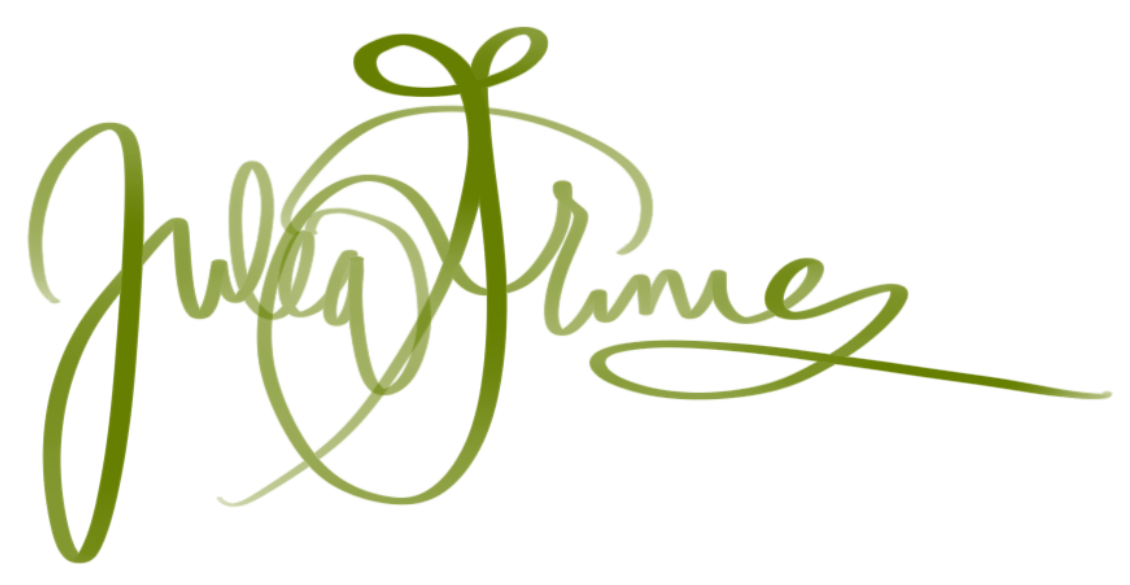
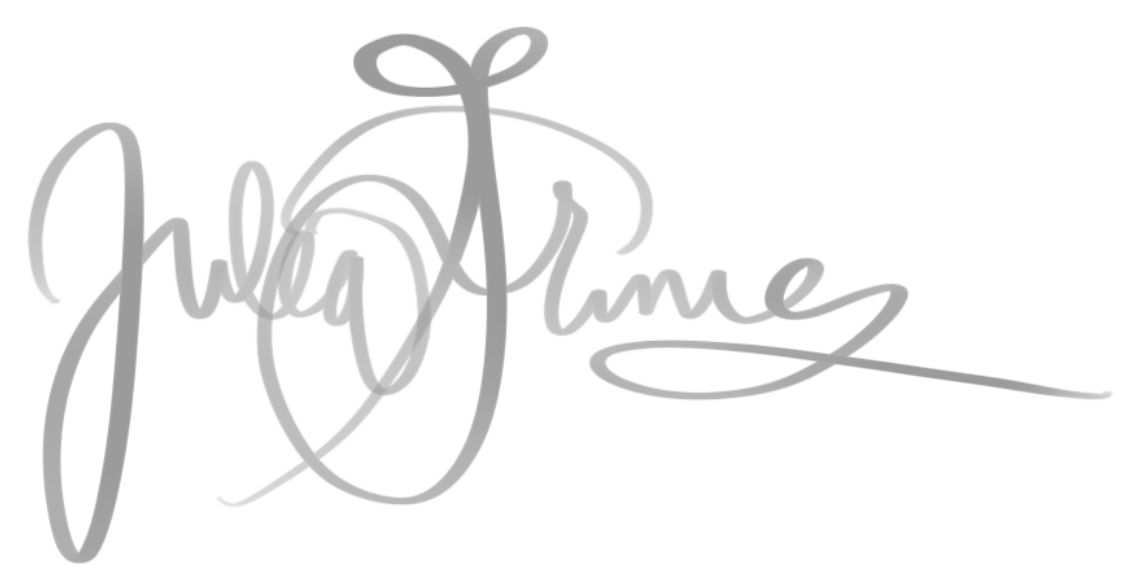
Update styling to simplify

Changed region(s): [[0.0, 0.0308, 0.9912, 0.9846], [0.1858, 0.8308, 0.2478, 0.8615], [0.4956, 0.2154, 0.5265, 0.2462]]

diff --git a/src/CSS/index.css b/src/CSS/index.css
@@ -5,7 +5,7 @@
   margin: 0px;
   padding: 0px;
   color-scheme: light dark;
-  color: rgba(255, 255, 255, 0.87);
+  color: rgba(217, 147, 147, 0.87);
   background-color: rgb(33,29,33);
 
   font-synthesis: none;
@@ -57,7 +57,7 @@ body {
   place-items: center;
   min-width: 320px;
   min-height: 100vh;
-  background-color: rgba(231, 194, 230, 0.193);
+  background-color: rgb(251, 202, 185);
 
 }
 
@@ -123,7 +123,7 @@ button {
   font-family: "j_font";
 
   z-index: 100;
-  background-color: rgb(33,29,33);
+  background-color: rgb(50, 49, 50);
 
 
 }
@@ -160,15 +160,15 @@ opacity: 0.2;
   max-height: 19vh;
   min-height: 8vh;
   height: auto;
-  background-blend-mode: screen, difference, lighten;
+  /* background-blend-mode: screen, difference, lighten; */
 
 }
 
 .sig-head{
-  font-family: sans-serif;
-  color: rgb(191,190,160);
+  font-family: 'j_font';
+  color: rgb(147, 172, 165);
   font-size: 2vh;
-  
+
   /* text-shadow: -15px 5px #e5e4e4; */
 }
 .sig-text{
@@ -178,24 +178,17 @@ opacity: 0.2;
 }
 
 .title-text{
-  font-family: 'title_font';
+  font-family: 'Didot';
   font-size: 12vw;
-  color:rgb(255, 143, 186);
-  mix-blend-mode: exclusion;
+  color:rgb(50, 29, 14);
+  /* text-shadow: 2px 2px 3px#b1b4c6; */
   text-align: center;
   position: relative;
   top: -6vh;
   z-index: 0;
+
 }
 
-.eggplant {
-  background-color: rgb(33,29,33);
-  width: 100vw;
-  height: 13vh;
-  position: absolute;
-  top: 14vh;
-  left: 0px;
-}
 
 .main-page-buttons {
   height: 30vh;

diff --git a/src/Home.jsx b/src/Home.jsx
@@ -8,7 +8,7 @@ export function Home() {
 
       <br></br>
 
-      <h1 className="title-text">WELCOME</h1>
+      <h1 className="title-text">Hello!</h1>
       <br></br>
       {/* <p className="fonted-links">
         <a href="/websites"> websites &nbsp; </a>~ &nbsp;
@@ -63,14 +63,10 @@ export function Home() {
       </div> */}
 
       {/* <img id="home-img" src="/src/assets/images/home.jpg"></img> */}
-      <br></br>
-      <br></br>
-      <br></br>
-      <br></br>
-      <br></br>
-      <br></br>
-      <br></br>
-      <br></br>
+      <h2>
+        Have you ever walked out the door, to discover it's a window? That is the type of experience I will try to
+        facilitate for you here.
+      </h2>
       <FooterDefault />
     </div>
   );

diff --git a/src/CSS/ConversationModal.css b/src/CSS/ConversationModal.css
@@ -14,10 +14,10 @@
   width: auto;
   max-height: 70%;
   overflow-wrap: scroll;
-  color:rgba(52, 52, 52);
+  color:rgb(188, 202, 192);
   padding: 0.2em;
   bottom: 5vh;
-  background-color: rgb(251, 151, 203);
+  background-color: rgb(99, 107, 90);
   border-radius: 5px;
   border-style: none;
   border-color: rgb(68, 84, 102);
@@ -46,12 +46,11 @@
 
 
 .text-bubble {
-  background-color: rgb(61, 61, 61);
+  background-color: rgb(98, 96, 96);
   padding: 10px;
   max-height: 40vh;
-  color: rgb(250, 200, 200);
+  color: rgb(208, 250, 200);
   border-radius: 14px;
-  border-style:dotted;
   bottom: 130px;
   z-index: 1;
   position: absolute;

diff --git a/src/Header.jsx b/src/Header.jsx
@@ -4,9 +4,9 @@ export function Header() {
       <a href="/">
         <img
           className="sig-img"
-          src="https://res.cloudinary.com/dytb4ayqj/image/upload/v1689568361/sign_julia_u4bp5c.png"
+          src="https://res.cloudinary.com/dytb4ayqj/image/upload/v1692969099/sign_julia_dyphdx.png"
         />
-        <p className="sig-head"> DESIGNER • PROGRAMMER • ARTIST</p>
+        <p className="sig-head"> Various Works</p>
       </a>
     </header>
   );

diff --git a/src/CSS/navbar.css b/src/CSS/navbar.css
@@ -3,6 +3,7 @@
 }
 
 #offcanvasNavbar {
-  background-color: rgb(251, 140, 149);
+  background-color: rgb(136, 165, 152);
   text-align: end;
+  color: rgb(231, 253, 205);
 }
